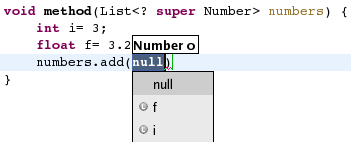
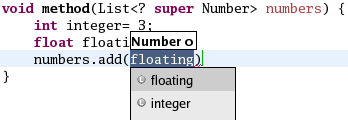
- new screenshots:   - for autoboxing parameter proposals (removed 'null' proposal)   - type argument proposals (correct location of the parameter hints) - renamed 'type parameter' to 'type argument' in the 'type parameter proposals' section - typos

diff --git a/bundles/org.eclipse.jdt.doc.user/whatsNew/jdt_whatsnew.html b/bundles/org.eclipse.jdt.doc.user/whatsNew/jdt_whatsnew.html
@@ -39,12 +39,12 @@ release of Eclipse since 3.0. It is broken into the several sections:</p>
 			<td width="30%" valign="top" align="left">
 			<p align="right"><b>J2SE 5.0</b></p>
 			</td>
-			<td width="70%" valign="top"><p>Eclipse 3.1 includes full suppot for the
+			<td width="70%" valign="top"><p>Eclipse 3.1 includes full support for the
 			new features of J2SE 5.0 (aka &quot;Tiger&quot;). One of the most
 			important consequences of this support is that you may not notice it
 			at all -- everything that you expect to work with J2SE 1.4, including
 			editing, compiling, debugging, quick fixes, refactorings, source
-			actions, searching, etc will work seamlessly with J2SE 5.0's new
+			actions, searching, etc. will work seamlessly with J2SE 5.0's new
 			types and syntax.</p>In order to develop code compliant with J2SE 5.0, 
 			you will need a 5.0 Java Runtime Environment (JRE). If you start Eclipse 
 			for the first time using a 5.0 JRE, then it will use it by default. 
@@ -101,18 +101,18 @@ release of Eclipse since 3.0. It is broken into the several sections:</p>
 		</tr>
 		<tr>
 			<td align="left" valign="top" width="30%">
-			<p align="right"><b>Parameter guessing for type parameters</b></p>
+			<p align="right"><b>Guessing for type arguments</b></p>
 			</td>
 			<td valign="top" width="70%">Code Assist now inserts the correct type
-			parameters when completing a type in the Java editor. Type parameters
+			arguments when completing a type in the Java editor. Type arguments
 			that cannot be disambiguated will be selected, and the <b>Tab</b> key
-			will move from one parameter to the next.
+			will move from one argument to the next.
 			<p>In this example <code>String</code> is inserted as the first type
-			parameter, while <code>Number</code> is proposed for the second:</p>
-			<p><img src="images/type-parameter-completion.png" width="443"
-				height="102"
-				alt="Screenshot: a 'HashMap' is returned from a method declaring 'Map&lt;String, ? extends Number&gt;' as return type. String is inserted as the first type parameter, while 'Number' is proposed for the second"
-				title="'String' is inserted as the first type parameter, while 'Number' is proposed for the second">
+			argument, while <code>Number</code> is proposed for the second:</p>
+			<p><img src="images/type-argument-completion.png" width="379"
+				height="87"
+				alt="Screenshot: a 'HashMap' is returned from a method declaring 'Map&lt;String, ? extends Number&gt;' as return type. String is inserted as the first type argument, while 'Number' is proposed for the second"
+				title="'String' is inserted as the first type argument, while 'Number' is proposed for the second">
 			</p>
 			<p>To try out this feature, you need to enable <b>Fill argument names</b>
 			on the <b>Java &gt; Editor &gt; Code Assist</b> preference page.</p>
@@ -483,9 +483,9 @@ release of Eclipse since 3.0. It is broken into the several sections:</p>
 			auto(un-)boxing proposals:
 			<p><img src="images/autoboxing_proposals.png"
 				alt="Screenshot showing autoboxing proposals"
-				title="Autoboxing Proposals" width="351" height="142"><br>
+				title="Autoboxing Proposals" width="348" height="120"><br>
 			</p>
-			<p>Note: <b>Java &gt; Editor &gt; Code Assist &gt; Fill argument names on completion</b> preference has to be enabled.</p>
+			<p>Note: The <b>Java &gt; Editor &gt; Code Assist &gt; Fill argument names on completion</b> preference has to be enabled.</p>
 			</td>
 		</tr>
 		<tr>
